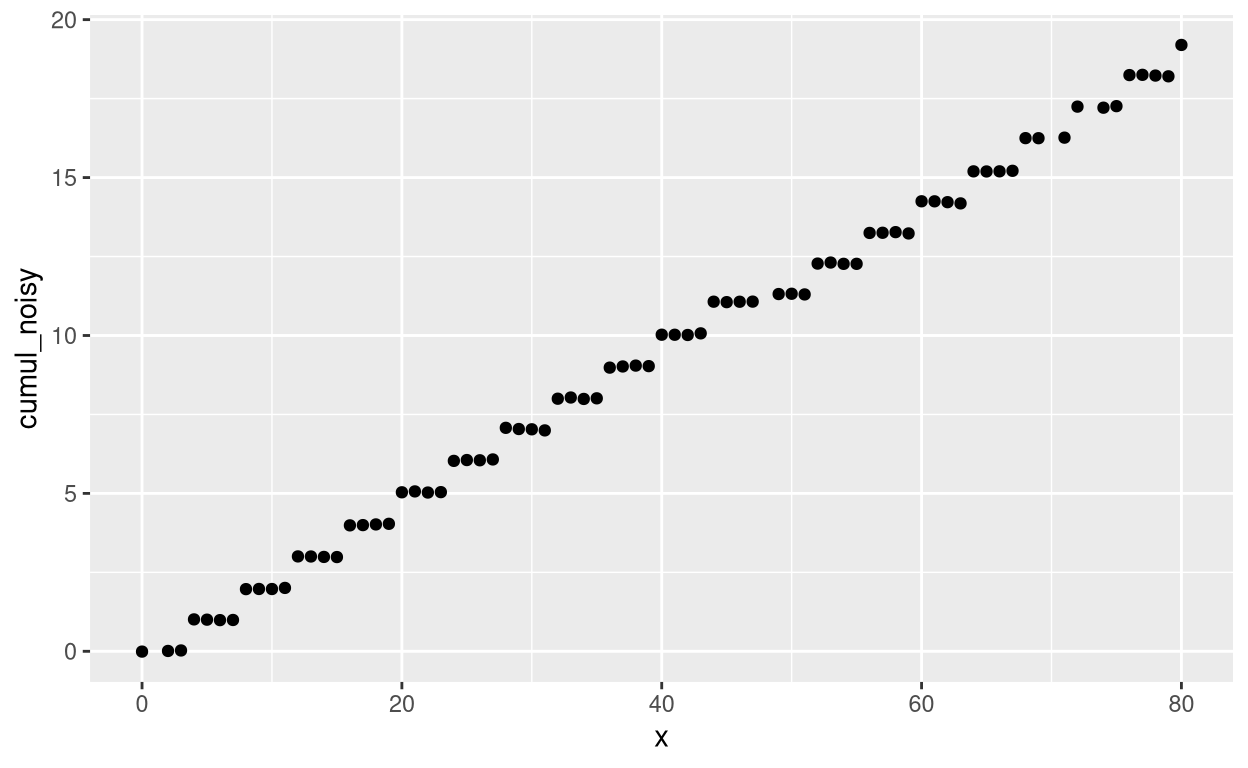
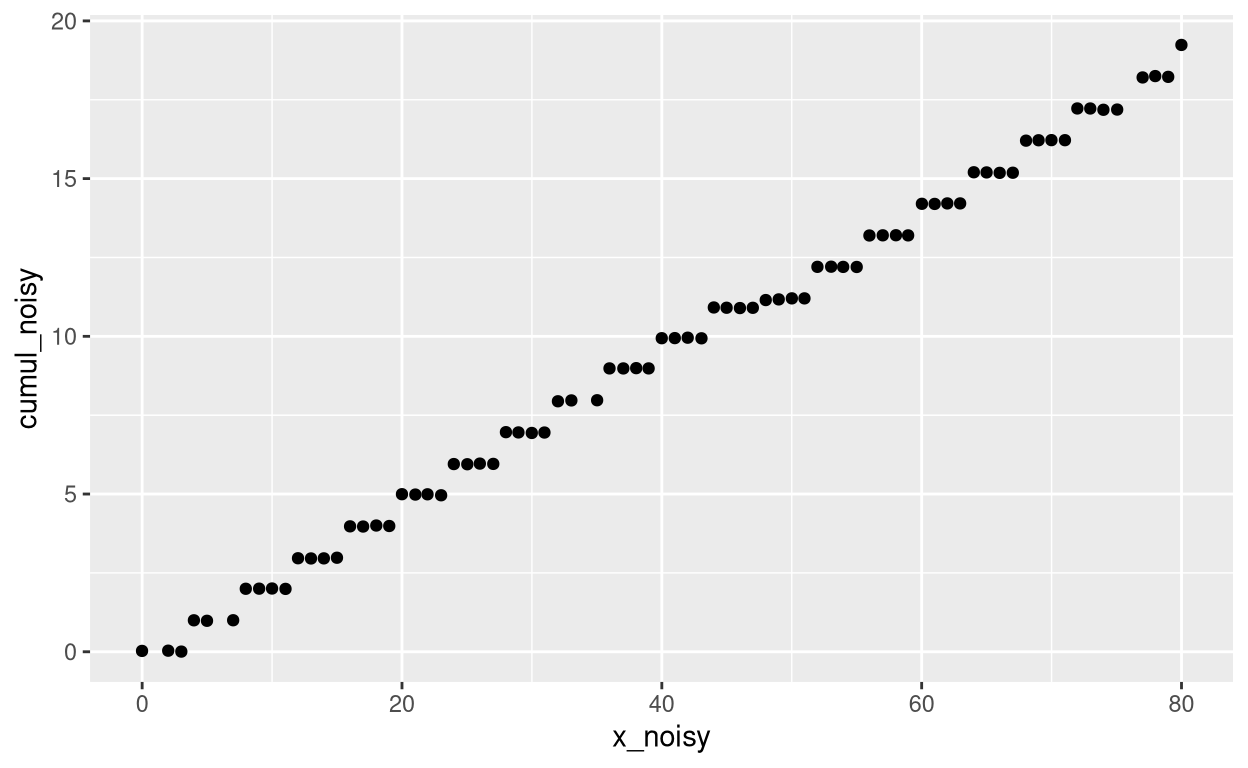
fill in simulating data blog post

diff --git a/_posts/2021-08-04-simulating-data/simulating-data.html b/_posts/2021-08-04-simulating-data/simulating-data.html
@@ -116,7 +116,7 @@ code span.wa { color: #5e5e5e; font-style: italic; } /* Warning */
   <!--/radix_placeholder_rmarkdown_metadata-->
   
   <script type="text/json" id="radix-resource-manifest">
-  {"type":"character","attributes":{},"value":["simulating-data_files/anchor-4.2.2/anchor.min.js","simulating-data_files/bowser-1.9.3/bowser.min.js","simulating-data_files/distill-2.2.21/template.v2.js","simulating-data_files/figure-html5/sim-1.png","simulating-data_files/header-attrs-2.9/header-attrs.js","simulating-data_files/jquery-1.11.3/jquery.min.js","simulating-data_files/popper-2.6.0/popper.min.js","simulating-data_files/tippy-6.2.7/tippy-bundle.umd.min.js","simulating-data_files/tippy-6.2.7/tippy-light-border.css","simulating-data_files/tippy-6.2.7/tippy.css","simulating-data_files/tippy-6.2.7/tippy.umd.min.js","simulating-data_files/webcomponents-2.0.0/webcomponents.js"]}
+  {"type":"character","attributes":{},"value":["simulating-data_files/anchor-4.2.2/anchor.min.js","simulating-data_files/bowser-1.9.3/bowser.min.js","simulating-data_files/distill-2.2.21/template.v2.js","simulating-data_files/figure-html5/sim-1.png","simulating-data_files/figure-html5/step-1.png","simulating-data_files/header-attrs-2.9/header-attrs.js","simulating-data_files/jquery-1.11.3/jquery.min.js","simulating-data_files/popper-2.6.0/popper.min.js","simulating-data_files/tippy-6.2.7/tippy-bundle.umd.min.js","simulating-data_files/tippy-6.2.7/tippy-light-border.css","simulating-data_files/tippy-6.2.7/tippy.css","simulating-data_files/tippy-6.2.7/tippy.umd.min.js","simulating-data_files/webcomponents-2.0.0/webcomponents.js"]}
   </script>
   <!--radix_placeholder_navigation_in_header-->
   <!--/radix_placeholder_navigation_in_header-->
@@ -1482,10 +1482,29 @@ code span.wa { color: #5e5e5e; font-style: italic; } /* Warning */
 </div>
 
 <div class="d-article">
-<p>Fill this in</p>
+<p>I want to describe an old project that required some interesting data analysis but first I need to find a way to create some artificial data. I basically need data from a step function, with some noise added. Each step has to have some “measurement” points in the middle. At first I tried to make my own step function in a naïve way, as shown below. I did not realise literally until I started writing this post and wrote a function called <code>step_func</code> that R has a built-in function <code>stats::stepfun</code>, which I need to learn more about.</p>
 <div class="layout-chunk" data-layout="l-body">
 
 </div>
+<div class="layout-chunk" data-layout="l-body">
+<div class="sourceCode">
+<pre class="sourceCode r"><code class="sourceCode r"><span class='va'>step_func</span> <span class='op'>&lt;-</span> <span class='kw'>function</span><span class='op'>(</span><span class='va'>n</span> <span class='op'>=</span> <span class='fl'>100L</span>, <span class='va'>m</span> <span class='op'>=</span> <span class='fl'>10L</span><span class='op'>)</span> <span class='op'>{</span>
+  <span class='va'>dat</span> <span class='op'>&lt;-</span> <span class='fu'><a href='https://rdrr.io/r/base/lapply.html'>sapply</a></span><span class='op'>(</span><span class='fl'>1</span><span class='op'>:</span><span class='va'>n</span>, <span class='kw'>function</span><span class='op'>(</span><span class='va'>x</span><span class='op'>)</span> <span class='fu'><a href='https://rdrr.io/r/base/rep.html'>rep</a></span><span class='op'>(</span><span class='va'>x</span>, <span class='va'>m</span><span class='op'>)</span><span class='op'>)</span>
+  
+  <span class='fu'><a href='https://rdrr.io/r/base/data.frame.html'>data.frame</a></span><span class='op'>(</span>
+    x <span class='op'>=</span> <span class='fl'>0</span><span class='op'>:</span><span class='op'>(</span><span class='op'>(</span><span class='va'>n</span> <span class='op'>*</span> <span class='va'>m</span> <span class='op'>)</span><span class='op'>-</span> <span class='fl'>1</span><span class='op'>)</span>, 
+    y <span class='op'>=</span> <span class='fu'><a href='https://rdrr.io/r/base/vector.html'>as.vector</a></span><span class='op'>(</span><span class='va'>dat</span><span class='op'>)</span>
+  <span class='op'>)</span>
+<span class='op'>}</span>
+
+<span class='va'>step_dat</span> <span class='op'>&lt;-</span> <span class='fu'>step_func</span><span class='op'>(</span>n <span class='op'>=</span> <span class='fl'>20</span>, m <span class='op'>=</span> <span class='fl'>4</span><span class='op'>)</span>
+<span class='fu'>ggplot2</span><span class='fu'>::</span><span class='fu'><a href='https://ggplot2.tidyverse.org/reference/ggplot.html'>ggplot</a></span><span class='op'>(</span><span class='va'>step_dat</span>, <span class='fu'>ggplot2</span><span class='fu'>::</span><span class='fu'><a href='https://ggplot2.tidyverse.org/reference/aes.html'>aes</a></span><span class='op'>(</span>x <span class='op'>=</span> <span class='va'>x</span>, y <span class='op'>=</span> <span class='va'>y</span><span class='op'>)</span><span class='op'>)</span> <span class='op'>+</span>
+  <span class='fu'>ggplot2</span><span class='fu'>::</span><span class='fu'><a href='https://ggplot2.tidyverse.org/reference/geom_point.html'>geom_point</a></span><span class='op'>(</span><span class='op'>)</span>
+</code></pre>
+</div>
+<p><img src="simulating-data_files/figure-html5/step-1.png" width="624" /></p>
+</div>
+<p>This is fine but I also need occasionally lower steps. It turned out one way to do this is to essentially simulate the underlying process that I was studying, by using a cumulative sum, with the step height sometimes decreased according to a probability in <code>rbinom</code>. I also added noise in the function below, and drop some of the “measurement” points randomly.</p>
 <div class="layout-chunk" data-layout="l-body">
 <div class="sourceCode">
 <pre class="sourceCode r"><code class="sourceCode r"><span class='fu'><a href='https://rdrr.io/r/base/Random.html'>set.seed</a></span><span class='op'>(</span><span class='fl'>100</span><span class='op'>)</span>
@@ -1495,7 +1514,8 @@ code span.wa { color: #5e5e5e; font-style: italic; } /* Warning */
                       <span class='va'>p</span> <span class='op'>=</span> <span class='fl'>0.15</span>,
                       <span class='va'>rmin</span> <span class='op'>=</span> <span class='fl'>0.2</span>,
                       <span class='va'>rmax</span> <span class='op'>=</span> <span class='fl'>0.8</span>,
-                      <span class='va'>sd_noise</span> <span class='op'>=</span> <span class='fl'>0.02</span>,
+                      <span class='va'>sd_x</span> <span class='op'>=</span> <span class='fl'>0.02</span>,
+                      <span class='va'>sd_y</span> <span class='op'>=</span> <span class='fl'>0.02</span>,
                       <span class='va'>del_frac</span> <span class='op'>=</span> <span class='fl'>0.05</span><span class='op'>)</span> <span class='op'>{</span>
 
   <span class='va'>sim</span> <span class='op'>&lt;-</span> <span class='fu'><a href='https://rdrr.io/r/base/data.frame.html'>data.frame</a></span><span class='op'>(</span>
@@ -1505,23 +1525,24 @@ code span.wa { color: #5e5e5e; font-style: italic; } /* Warning */
   
   <span class='va'>meas</span> <span class='op'>&lt;-</span> <span class='fu'><a href='https://rdrr.io/r/base/data.frame.html'>data.frame</a></span><span class='op'>(</span>
     x <span class='op'>=</span> <span class='fl'>0</span><span class='op'>:</span><span class='op'>(</span><span class='va'>n</span> <span class='op'>*</span> <span class='va'>m</span><span class='op'>)</span>,
-    noise <span class='op'>=</span> <span class='fu'><a href='https://rdrr.io/r/stats/Normal.html'>rnorm</a></span><span class='op'>(</span><span class='op'>(</span><span class='va'>n</span> <span class='op'>*</span> <span class='va'>m</span><span class='op'>)</span> <span class='op'>+</span> <span class='fl'>1</span>, mean <span class='op'>=</span> <span class='fl'>0</span>, sd <span class='op'>=</span> <span class='va'>sd_noise</span><span class='op'>)</span>
+    noise_x <span class='op'>=</span> <span class='fu'><a href='https://rdrr.io/r/stats/Normal.html'>rnorm</a></span><span class='op'>(</span><span class='op'>(</span><span class='va'>n</span> <span class='op'>*</span> <span class='va'>m</span><span class='op'>)</span> <span class='op'>+</span> <span class='fl'>1</span>, mean <span class='op'>=</span> <span class='fl'>0</span>, sd <span class='op'>=</span> <span class='va'>sd_x</span><span class='op'>)</span>,
+    noise_y <span class='op'>=</span> <span class='fu'><a href='https://rdrr.io/r/stats/Normal.html'>rnorm</a></span><span class='op'>(</span><span class='op'>(</span><span class='va'>n</span> <span class='op'>*</span> <span class='va'>m</span><span class='op'>)</span> <span class='op'>+</span> <span class='fl'>1</span>, mean <span class='op'>=</span> <span class='fl'>0</span>, sd <span class='op'>=</span> <span class='va'>sd_y</span><span class='op'>)</span>
   <span class='op'>)</span>
   
   <span class='va'>sim_noisy</span> <span class='op'>&lt;-</span> <span class='fu'><a href='https://rdrr.io/r/base/merge.html'>merge</a></span><span class='op'>(</span><span class='va'>sim</span>, <span class='va'>meas</span>, all <span class='op'>=</span> <span class='cn'>TRUE</span><span class='op'>)</span>
-  <span class='va'>sim_noisy</span><span class='op'>$</span><span class='va'>y_noisy</span> <span class='op'>&lt;-</span> <span class='fu'><a href='https://rdrr.io/r/base/colSums.html'>rowSums</a></span><span class='op'>(</span><span class='va'>sim_noisy</span><span class='op'>[</span>, <span class='fu'><a href='https://rdrr.io/r/base/c.html'>c</a></span><span class='op'>(</span><span class='st'>"y"</span>, <span class='st'>"noise"</span><span class='op'>)</span><span class='op'>]</span>, na.rm <span class='op'>=</span> <span class='cn'>TRUE</span><span class='op'>)</span>
+  <span class='va'>sim_noisy</span><span class='op'>$</span><span class='va'>y_noisy</span> <span class='op'>&lt;-</span> <span class='fu'><a href='https://rdrr.io/r/base/colSums.html'>rowSums</a></span><span class='op'>(</span><span class='va'>sim_noisy</span><span class='op'>[</span>, <span class='fu'><a href='https://rdrr.io/r/base/c.html'>c</a></span><span class='op'>(</span><span class='st'>"y"</span>, <span class='st'>"noise_y"</span><span class='op'>)</span><span class='op'>]</span>, na.rm <span class='op'>=</span> <span class='cn'>TRUE</span><span class='op'>)</span>
+  <span class='va'>sim_noisy</span><span class='op'>$</span><span class='va'>x_noisy</span> <span class='op'>&lt;-</span> <span class='fu'><a href='https://rdrr.io/r/base/colSums.html'>rowSums</a></span><span class='op'>(</span><span class='va'>sim_noisy</span><span class='op'>[</span>, <span class='fu'><a href='https://rdrr.io/r/base/c.html'>c</a></span><span class='op'>(</span><span class='st'>"x"</span>, <span class='st'>"noise_x"</span><span class='op'>)</span><span class='op'>]</span>, na.rm <span class='op'>=</span> <span class='cn'>TRUE</span><span class='op'>)</span>
   <span class='va'>sim_noisy</span><span class='op'>$</span><span class='va'>cumul_noisy</span> <span class='op'>&lt;-</span> <span class='fu'><a href='https://rdrr.io/r/base/cumsum.html'>cumsum</a></span><span class='op'>(</span><span class='va'>sim_noisy</span><span class='op'>$</span><span class='va'>y_noisy</span><span class='op'>)</span>
 
   <span class='va'>del_nrows</span> <span class='op'>=</span> <span class='fu'><a href='https://rdrr.io/r/base/integer.html'>as.integer</a></span><span class='op'>(</span><span class='va'>n</span> <span class='op'>*</span> <span class='va'>m</span> <span class='op'>*</span> <span class='va'>del_frac</span><span class='op'>)</span>
   <span class='va'>del_rows</span> <span class='op'>&lt;-</span> <span class='fu'><a href='https://rdrr.io/r/base/sample.html'>sample</a></span><span class='op'>(</span><span class='va'>n</span> <span class='op'>*</span> <span class='va'>m</span>, <span class='va'>del_nrows</span>, replace <span class='op'>=</span> <span class='cn'>FALSE</span><span class='op'>)</span>
   
-  <span class='va'>sim_noisy</span><span class='op'>[</span><span class='op'>-</span><span class='va'>del_rows</span>, <span class='op'>]</span>
+  <span class='va'>sim_noisy</span><span class='op'>[</span><span class='op'>-</span><span class='va'>del_rows</span>, <span class='fu'><a href='https://rdrr.io/r/base/c.html'>c</a></span><span class='op'>(</span><span class='st'>"x_noisy"</span>, <span class='st'>"cumul_noisy"</span><span class='op'>)</span><span class='op'>]</span>
 <span class='op'>}</span>
 
 <span class='va'>sim_dat</span> <span class='op'>&lt;-</span> <span class='fu'>make_data</span><span class='op'>(</span>n <span class='op'>=</span> <span class='fl'>20</span>, m <span class='op'>=</span> <span class='fl'>4</span><span class='op'>)</span>
 
-<span class='co'># plot(sim_dat[, c("x", "cumul_noisy")])</span>
-<span class='fu'>ggplot2</span><span class='fu'>::</span><span class='fu'><a href='https://ggplot2.tidyverse.org/reference/ggplot.html'>ggplot</a></span><span class='op'>(</span><span class='va'>sim_dat</span>, <span class='fu'>ggplot2</span><span class='fu'>::</span><span class='fu'><a href='https://ggplot2.tidyverse.org/reference/aes.html'>aes</a></span><span class='op'>(</span>x <span class='op'>=</span> <span class='va'>x</span>, y <span class='op'>=</span> <span class='va'>cumul_noisy</span><span class='op'>)</span><span class='op'>)</span> <span class='op'>+</span>
+<span class='fu'>ggplot2</span><span class='fu'>::</span><span class='fu'><a href='https://ggplot2.tidyverse.org/reference/ggplot.html'>ggplot</a></span><span class='op'>(</span><span class='va'>sim_dat</span>, <span class='fu'>ggplot2</span><span class='fu'>::</span><span class='fu'><a href='https://ggplot2.tidyverse.org/reference/aes.html'>aes</a></span><span class='op'>(</span>x <span class='op'>=</span> <span class='va'>x_noisy</span>, y <span class='op'>=</span> <span class='va'>cumul_noisy</span><span class='op'>)</span><span class='op'>)</span> <span class='op'>+</span>
   <span class='fu'>ggplot2</span><span class='fu'>::</span><span class='fu'><a href='https://ggplot2.tidyverse.org/reference/geom_point.html'>geom_point</a></span><span class='op'>(</span><span class='op'>)</span>
 </code></pre>
 </div>

diff --git a/docs/posts/2021-08-04-simulating-data/index.html b/docs/posts/2021-08-04-simulating-data/index.html
@@ -117,7 +117,7 @@ code span.wa { color: #5e5e5e; font-style: italic; } /* Warning */
 <!--/radix_placeholder_rmarkdown_metadata-->
   
   <script type="text/json" id="radix-resource-manifest">
-  {"type":"character","attributes":{},"value":["simulating-data_files/anchor-4.2.2/anchor.min.js","simulating-data_files/bowser-1.9.3/bowser.min.js","simulating-data_files/distill-2.2.21/template.v2.js","simulating-data_files/figure-html5/sim-1.png","simulating-data_files/header-attrs-2.9/header-attrs.js","simulating-data_files/jquery-1.11.3/jquery.min.js","simulating-data_files/popper-2.6.0/popper.min.js","simulating-data_files/tippy-6.2.7/tippy-bundle.umd.min.js","simulating-data_files/tippy-6.2.7/tippy-light-border.css","simulating-data_files/tippy-6.2.7/tippy.css","simulating-data_files/tippy-6.2.7/tippy.umd.min.js","simulating-data_files/webcomponents-2.0.0/webcomponents.js"]}
+  {"type":"character","attributes":{},"value":["simulating-data_files/anchor-4.2.2/anchor.min.js","simulating-data_files/bowser-1.9.3/bowser.min.js","simulating-data_files/distill-2.2.21/template.v2.js","simulating-data_files/figure-html5/sim-1.png","simulating-data_files/figure-html5/step-1.png","simulating-data_files/header-attrs-2.9/header-attrs.js","simulating-data_files/jquery-1.11.3/jquery.min.js","simulating-data_files/popper-2.6.0/popper.min.js","simulating-data_files/tippy-6.2.7/tippy-bundle.umd.min.js","simulating-data_files/tippy-6.2.7/tippy-light-border.css","simulating-data_files/tippy-6.2.7/tippy.css","simulating-data_files/tippy-6.2.7/tippy.umd.min.js","simulating-data_files/webcomponents-2.0.0/webcomponents.js"]}
   </script>
   <!--radix_placeholder_navigation_in_header-->
 <meta name="distill:offset" content="../.."/>
@@ -1855,10 +1855,29 @@ body {
 </div>
 
 <div class="d-article">
-<p>Fill this in</p>
+<p>I want to describe an old project that required some interesting data analysis but first I need to find a way to create some artificial data. I basically need data from a step function, with some noise added. Each step has to have some “measurement” points in the middle. At first I tried to make my own step function in a naïve way, as shown below. I did not realise literally until I started writing this post and wrote a function called <code>step_func</code> that R has a built-in function <code>stats::stepfun</code>, which I need to learn more about.</p>
 <div class="layout-chunk" data-layout="l-body">
 
 </div>
+<div class="layout-chunk" data-layout="l-body">
+<div class="sourceCode">
+<pre class="sourceCode r"><code class="sourceCode r"><span class='va'>step_func</span> <span class='op'>&lt;-</span> <span class='kw'>function</span><span class='op'>(</span><span class='va'>n</span> <span class='op'>=</span> <span class='fl'>100L</span>, <span class='va'>m</span> <span class='op'>=</span> <span class='fl'>10L</span><span class='op'>)</span> <span class='op'>{</span>
+  <span class='va'>dat</span> <span class='op'>&lt;-</span> <span class='fu'><a href='https://rdrr.io/r/base/lapply.html'>sapply</a></span><span class='op'>(</span><span class='fl'>1</span><span class='op'>:</span><span class='va'>n</span>, <span class='kw'>function</span><span class='op'>(</span><span class='va'>x</span><span class='op'>)</span> <span class='fu'><a href='https://rdrr.io/r/base/rep.html'>rep</a></span><span class='op'>(</span><span class='va'>x</span>, <span class='va'>m</span><span class='op'>)</span><span class='op'>)</span>
+  
+  <span class='fu'><a href='https://rdrr.io/r/base/data.frame.html'>data.frame</a></span><span class='op'>(</span>
+    x <span class='op'>=</span> <span class='fl'>0</span><span class='op'>:</span><span class='op'>(</span><span class='op'>(</span><span class='va'>n</span> <span class='op'>*</span> <span class='va'>m</span> <span class='op'>)</span><span class='op'>-</span> <span class='fl'>1</span><span class='op'>)</span>, 
+    y <span class='op'>=</span> <span class='fu'><a href='https://rdrr.io/r/base/vector.html'>as.vector</a></span><span class='op'>(</span><span class='va'>dat</span><span class='op'>)</span>
+  <span class='op'>)</span>
+<span class='op'>}</span>
+
+<span class='va'>step_dat</span> <span class='op'>&lt;-</span> <span class='fu'>step_func</span><span class='op'>(</span>n <span class='op'>=</span> <span class='fl'>20</span>, m <span class='op'>=</span> <span class='fl'>4</span><span class='op'>)</span>
+<span class='fu'>ggplot2</span><span class='fu'>::</span><span class='fu'><a href='https://ggplot2.tidyverse.org/reference/ggplot.html'>ggplot</a></span><span class='op'>(</span><span class='va'>step_dat</span>, <span class='fu'>ggplot2</span><span class='fu'>::</span><span class='fu'><a href='https://ggplot2.tidyverse.org/reference/aes.html'>aes</a></span><span class='op'>(</span>x <span class='op'>=</span> <span class='va'>x</span>, y <span class='op'>=</span> <span class='va'>y</span><span class='op'>)</span><span class='op'>)</span> <span class='op'>+</span>
+  <span class='fu'>ggplot2</span><span class='fu'>::</span><span class='fu'><a href='https://ggplot2.tidyverse.org/reference/geom_point.html'>geom_point</a></span><span class='op'>(</span><span class='op'>)</span>
+</code></pre>
+</div>
+<p><img src="simulating-data_files/figure-html5/step-1.png" width="624" /></p>
+</div>
+<p>This is fine but I also need occasionally lower steps. It turned out one way to do this is to essentially simulate the underlying process that I was studying, by using a cumulative sum, with the step height sometimes decreased according to a probability in <code>rbinom</code>. I also added noise in the function below, and drop some of the “measurement” points randomly.</p>
 <div class="layout-chunk" data-layout="l-body">
 <div class="sourceCode">
 <pre class="sourceCode r"><code class="sourceCode r"><span class='fu'><a href='https://rdrr.io/r/base/Random.html'>set.seed</a></span><span class='op'>(</span><span class='fl'>100</span><span class='op'>)</span>
@@ -1868,7 +1887,8 @@ body {
                       <span class='va'>p</span> <span class='op'>=</span> <span class='fl'>0.15</span>,
                       <span class='va'>rmin</span> <span class='op'>=</span> <span class='fl'>0.2</span>,
                       <span class='va'>rmax</span> <span class='op'>=</span> <span class='fl'>0.8</span>,
-                      <span class='va'>sd_noise</span> <span class='op'>=</span> <span class='fl'>0.02</span>,
+                      <span class='va'>sd_x</span> <span class='op'>=</span> <span class='fl'>0.02</span>,
+                      <span class='va'>sd_y</span> <span class='op'>=</span> <span class='fl'>0.02</span>,
                       <span class='va'>del_frac</span> <span class='op'>=</span> <span class='fl'>0.05</span><span class='op'>)</span> <span class='op'>{</span>
 
   <span class='va'>sim</span> <span class='op'>&lt;-</span> <span class='fu'><a href='https://rdrr.io/r/base/data.frame.html'>data.frame</a></span><span class='op'>(</span>
@@ -1878,23 +1898,24 @@ body {
   
   <span class='va'>meas</span> <span class='op'>&lt;-</span> <span class='fu'><a href='https://rdrr.io/r/base/data.frame.html'>data.frame</a></span><span class='op'>(</span>
     x <span class='op'>=</span> <span class='fl'>0</span><span class='op'>:</span><span class='op'>(</span><span class='va'>n</span> <span class='op'>*</span> <span class='va'>m</span><span class='op'>)</span>,
-    noise <span class='op'>=</span> <span class='fu'><a href='https://rdrr.io/r/stats/Normal.html'>rnorm</a></span><span class='op'>(</span><span class='op'>(</span><span class='va'>n</span> <span class='op'>*</span> <span class='va'>m</span><span class='op'>)</span> <span class='op'>+</span> <span class='fl'>1</span>, mean <span class='op'>=</span> <span class='fl'>0</span>, sd <span class='op'>=</span> <span class='va'>sd_noise</span><span class='op'>)</span>
+    noise_x <span class='op'>=</span> <span class='fu'><a href='https://rdrr.io/r/stats/Normal.html'>rnorm</a></span><span class='op'>(</span><span class='op'>(</span><span class='va'>n</span> <span class='op'>*</span> <span class='va'>m</span><span class='op'>)</span> <span class='op'>+</span> <span class='fl'>1</span>, mean <span class='op'>=</span> <span class='fl'>0</span>, sd <span class='op'>=</span> <span class='va'>sd_x</span><span class='op'>)</span>,
+    noise_y <span class='op'>=</span> <span class='fu'><a href='https://rdrr.io/r/stats/Normal.html'>rnorm</a></span><span class='op'>(</span><span class='op'>(</span><span class='va'>n</span> <span class='op'>*</span> <span class='va'>m</span><span class='op'>)</span> <span class='op'>+</span> <span class='fl'>1</span>, mean <span class='op'>=</span> <span class='fl'>0</span>, sd <span class='op'>=</span> <span class='va'>sd_y</span><span class='op'>)</span>
   <span class='op'>)</span>
   
   <span class='va'>sim_noisy</span> <span class='op'>&lt;-</span> <span class='fu'><a href='https://rdrr.io/r/base/merge.html'>merge</a></span><span class='op'>(</span><span class='va'>sim</span>, <span class='va'>meas</span>, all <span class='op'>=</span> <span class='cn'>TRUE</span><span class='op'>)</span>
-  <span class='va'>sim_noisy</span><span class='op'>$</span><span class='va'>y_noisy</span> <span class='op'>&lt;-</span> <span class='fu'><a href='https://rdrr.io/r/base/colSums.html'>rowSums</a></span><span class='op'>(</span><span class='va'>sim_noisy</span><span class='op'>[</span>, <span class='fu'><a href='https://rdrr.io/r/base/c.html'>c</a></span><span class='op'>(</span><span class='st'>"y"</span>, <span class='st'>"noise"</span><span class='op'>)</span><span class='op'>]</span>, na.rm <span class='op'>=</span> <span class='cn'>TRUE</span><span class='op'>)</span>
+  <span class='va'>sim_noisy</span><span class='op'>$</span><span class='va'>y_noisy</span> <span class='op'>&lt;-</span> <span class='fu'><a href='https://rdrr.io/r/base/colSums.html'>rowSums</a></span><span class='op'>(</span><span class='va'>sim_noisy</span><span class='op'>[</span>, <span class='fu'><a href='https://rdrr.io/r/base/c.html'>c</a></span><span class='op'>(</span><span class='st'>"y"</span>, <span class='st'>"noise_y"</span><span class='op'>)</span><span class='op'>]</span>, na.rm <span class='op'>=</span> <span class='cn'>TRUE</span><span class='op'>)</span>
+  <span class='va'>sim_noisy</span><span class='op'>$</span><span class='va'>x_noisy</span> <span class='op'>&lt;-</span> <span class='fu'><a href='https://rdrr.io/r/base/colSums.html'>rowSums</a></span><span class='op'>(</span><span class='va'>sim_noisy</span><span class='op'>[</span>, <span class='fu'><a href='https://rdrr.io/r/base/c.html'>c</a></span><span class='op'>(</span><span class='st'>"x"</span>, <span class='st'>"noise_x"</span><span class='op'>)</span><span class='op'>]</span>, na.rm <span class='op'>=</span> <span class='cn'>TRUE</span><span class='op'>)</span>
   <span class='va'>sim_noisy</span><span class='op'>$</span><span class='va'>cumul_noisy</span> <span class='op'>&lt;-</span> <span class='fu'><a href='https://rdrr.io/r/base/cumsum.html'>cumsum</a></span><span class='op'>(</span><span class='va'>sim_noisy</span><span class='op'>$</span><span class='va'>y_noisy</span><span class='op'>)</span>
 
   <span class='va'>del_nrows</span> <span class='op'>=</span> <span class='fu'><a href='https://rdrr.io/r/base/integer.html'>as.integer</a></span><span class='op'>(</span><span class='va'>n</span> <span class='op'>*</span> <span class='va'>m</span> <span class='op'>*</span> <span class='va'>del_frac</span><span class='op'>)</span>
   <span class='va'>del_rows</span> <span class='op'>&lt;-</span> <span class='fu'><a href='https://rdrr.io/r/base/sample.html'>sample</a></span><span class='op'>(</span><span class='va'>n</span> <span class='op'>*</span> <span class='va'>m</span>, <span class='va'>del_nrows</span>, replace <span class='op'>=</span> <span class='cn'>FALSE</span><span class='op'>)</span>
   
-  <span class='va'>sim_noisy</span><span class='op'>[</span><span class='op'>-</span><span class='va'>del_rows</span>, <span class='op'>]</span>
+  <span class='va'>sim_noisy</span><span class='op'>[</span><span class='op'>-</span><span class='va'>del_rows</span>, <span class='fu'><a href='https://rdrr.io/r/base/c.html'>c</a></span><span class='op'>(</span><span class='st'>"x_noisy"</span>, <span class='st'>"cumul_noisy"</span><span class='op'>)</span><span class='op'>]</span>
 <span class='op'>}</span>
 
 <span class='va'>sim_dat</span> <span class='op'>&lt;-</span> <span class='fu'>make_data</span><span class='op'>(</span>n <span class='op'>=</span> <span class='fl'>20</span>, m <span class='op'>=</span> <span class='fl'>4</span><span class='op'>)</span>
 
-<span class='co'># plot(sim_dat[, c("x", "cumul_noisy")])</span>
-<span class='fu'>ggplot2</span><span class='fu'>::</span><span class='fu'><a href='https://ggplot2.tidyverse.org/reference/ggplot.html'>ggplot</a></span><span class='op'>(</span><span class='va'>sim_dat</span>, <span class='fu'>ggplot2</span><span class='fu'>::</span><span class='fu'><a href='https://ggplot2.tidyverse.org/reference/aes.html'>aes</a></span><span class='op'>(</span>x <span class='op'>=</span> <span class='va'>x</span>, y <span class='op'>=</span> <span class='va'>cumul_noisy</span><span class='op'>)</span><span class='op'>)</span> <span class='op'>+</span>
+<span class='fu'>ggplot2</span><span class='fu'>::</span><span class='fu'><a href='https://ggplot2.tidyverse.org/reference/ggplot.html'>ggplot</a></span><span class='op'>(</span><span class='va'>sim_dat</span>, <span class='fu'>ggplot2</span><span class='fu'>::</span><span class='fu'><a href='https://ggplot2.tidyverse.org/reference/aes.html'>aes</a></span><span class='op'>(</span>x <span class='op'>=</span> <span class='va'>x_noisy</span>, y <span class='op'>=</span> <span class='va'>cumul_noisy</span><span class='op'>)</span><span class='op'>)</span> <span class='op'>+</span>
   <span class='fu'>ggplot2</span><span class='fu'>::</span><span class='fu'><a href='https://ggplot2.tidyverse.org/reference/geom_point.html'>geom_point</a></span><span class='op'>(</span><span class='op'>)</span>
 </code></pre>
 </div>

diff --git a/docs/blog.html b/docs/blog.html
@@ -1969,7 +1969,7 @@ function init_posts_list() {
 </div>
 </div>
 <div class="thumbnail">
-<img src="posts/2021-08-04-simulating-data/simulating-data_files/figure-html5/sim-1.png"/>
+<img src="posts/2021-08-04-simulating-data/simulating-data_files/figure-html5/step-1.png"/>
 </div>
 <div class="description">
 <h2>simulating data</h2>
